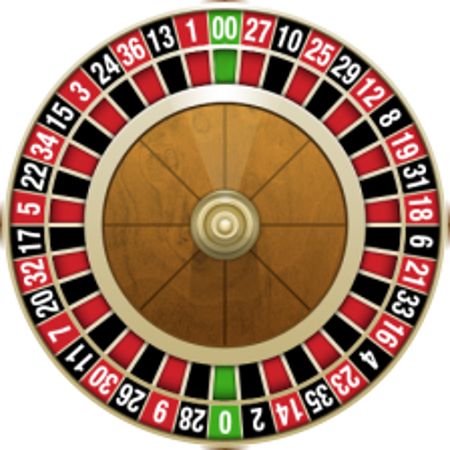
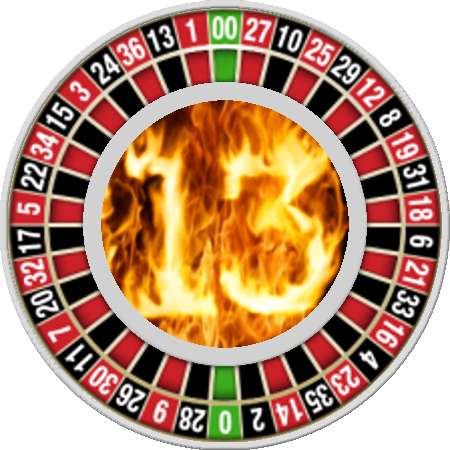
American Roulette rules/visuals and some visual updates to the wheels

diff --git a/CasinoPractice/core/src/com/thirteensecondstoburn/CasinoPractice/Actors/RouletteWheel.java b/CasinoPractice/core/src/com/thirteensecondstoburn/CasinoPractice/Actors/RouletteWheel.java
@@ -6,6 +6,7 @@ import com.badlogic.gdx.scenes.scene2d.Actor;
 import com.badlogic.gdx.scenes.scene2d.actions.Actions;
 import com.badlogic.gdx.scenes.scene2d.ui.Image;
 import com.thirteensecondstoburn.CasinoPractice.Assets;
+import com.thirteensecondstoburn.CasinoPractice.Screens.RouletteScreen;
 
 import java.util.ArrayList;
 import java.util.HashMap;
@@ -29,7 +30,11 @@ public class RouletteWheel extends Actor {
     int direction = 1;
 
     public RouletteWheel(Assets assets) {
-        wheel = new Image(assets.getTexture(Assets.TEX_NAME.ROULETTE_WHEEL_EUROPEAN));
+        if (RouletteScreen.isEuropean) {
+            wheel = new Image(assets.getTexture(Assets.TEX_NAME.ROULETTE_WHEEL_EUROPEAN));
+        } else {
+            wheel = new Image(assets.getTexture(Assets.TEX_NAME.ROULETTE_WHEEL_AMERICAN));
+        }
         wheel.setOrigin(225, 225);
         wheel.setPosition(this.getX(), this.getY());
 
@@ -39,10 +44,6 @@ public class RouletteWheel extends Actor {
         ball = new Image(assets.getTexture(Assets.TEX_NAME.ROULETTE_WHEEL_BALL));
         ball.setPosition(this.getX(), this.getY());
         ball.setOrigin(225, 225);
-
-//        for(int i=0; i<38; i++) {
-//            System.out.println(i * 360.0/37.0);
-//        }
     }
 
     @Override
@@ -72,15 +73,16 @@ public class RouletteWheel extends Actor {
         @Override
         public void run() {
             // make sure the wheel/ball end up on exact angles, set their positions and then set the ball number
-            // TODO update for the american wheel
             HashMap<Double, Integer> map = europeanAngles;
+            if(!RouletteScreen.isEuropean) {
+                map = americanAngles;
+            }
 
-
-            double ballRotation =  getClosestAngle(map, ball.getRotation());
-            ball.setRotation((float)ballRotation);
+            double ballRotation = getClosestAngle(map, ball.getRotation());
+            ball.setRotation((float) ballRotation);
             double wheelRotation = getClosestAngle(map, wheel.getRotation());
             wheel.setRotation((float) wheelRotation);
-            if(ballRotation > wheelRotation) ballRotation -= 360;
+            if (ballRotation > wheelRotation) ballRotation -= 360;
             double offsetAngle = getClosestAngle(map, Math.abs(ballRotation - wheelRotation));
             number = map.get(offsetAngle);
 
@@ -89,7 +91,10 @@ public class RouletteWheel extends Actor {
     }
 
     public void spin() {
-        int numbers = 37; // TODO change for american to 38
+        int numbers = 37;
+        if(!RouletteScreen.isEuropean) {
+            number = 38;
+        }
 
         ball.addAction(Actions.rotateBy(-1 * direction * (rand.nextInt(numbers) * 360 / numbers + 1080), 5f, Interpolation.sineOut));
         wheel.addAction(sequence(
@@ -104,16 +109,16 @@ public class RouletteWheel extends Actor {
     }
 
     private void notifyListeners() {
-        for(ActionCompletedListener l : listeners) {
+        for (ActionCompletedListener l : listeners) {
             l.actionCompleted(this);
         }
     }
 
     private double getClosestAngle(HashMap<Double, Integer> map, double refAngle) {
         Set<Double> keys = map.keySet();
-        if(Math.abs(refAngle) > 360) {
-            double timesGreater = (int)Math.abs(refAngle) / 360.0;
-            if(refAngle >= 0) {
+        if (Math.abs(refAngle) > 360) {
+            double timesGreater = (int) Math.abs(refAngle) / 360.0;
+            if (refAngle >= 0) {
                 refAngle -= 360.0 * (int) timesGreater;
             } else {
                 refAngle += 360.0 * (int) timesGreater + 360;
@@ -123,7 +128,7 @@ public class RouletteWheel extends Actor {
         double closestAngle = 0;
         for (double angle : keys) {
             double distance = Math.abs(refAngle - angle);
-            if(distance < closest) {
+            if (distance < closest) {
                 closest = distance;
                 closestAngle = angle;
             }
@@ -132,6 +137,7 @@ public class RouletteWheel extends Actor {
     }
 
     private static final HashMap<Double, Integer> europeanAngles = new HashMap<>();
+
     static {
         europeanAngles.put(0.0, 0);
         europeanAngles.put(9.72972972972973, 32);
@@ -170,5 +176,48 @@ public class RouletteWheel extends Actor {
         europeanAngles.put(330.81081081081084, 35);
         europeanAngles.put(340.5405405405405, 3);
         europeanAngles.put(350.27027027027026, 26);
-    };
+    }
+
+    private static final HashMap<Double, Integer> americanAngles = new HashMap<>();
+
+    static {
+        americanAngles.put(0.0, 37);
+        americanAngles.put(9.473684210526315, 27);
+        americanAngles.put(18.94736842105263, 10);
+        americanAngles.put(28.42105263157895, 25);
+        americanAngles.put(37.89473684210526, 29);
+        americanAngles.put(47.36842105263158, 12);
+        americanAngles.put(56.8421052631579, 8);
+        americanAngles.put(66.3157894736842, 19);
+        americanAngles.put(75.78947368421052, 31);
+        americanAngles.put(85.26315789473684, 18);
+        americanAngles.put(94.73684210526316, 6);
+        americanAngles.put(104.21052631578948, 21);
+        americanAngles.put(113.6842105263158, 33);
+        americanAngles.put(123.15789473684211, 16);
+        americanAngles.put(132.6315789473684, 4);
+        americanAngles.put(142.10526315789474, 23);
+        americanAngles.put(151.57894736842104, 35);
+        americanAngles.put(161.05263157894737, 14);
+        americanAngles.put(170.52631578947367, 2);
+        americanAngles.put(180.0, 0);
+        americanAngles.put(189.47368421052633, 28);
+        americanAngles.put(198.94736842105263, 9);
+        americanAngles.put(208.42105263157896, 26);
+        americanAngles.put(217.89473684210526, 30);
+        americanAngles.put(227.3684210526316, 11);
+        americanAngles.put(236.8421052631579, 7);
+        americanAngles.put(246.31578947368422, 20);
+        americanAngles.put(255.78947368421052, 32);
+        americanAngles.put(265.2631578947368, 17);
+        americanAngles.put(274.7368421052632, 5);
+        americanAngles.put(284.2105263157895, 22);
+        americanAngles.put(293.6842105263158, 34);
+        americanAngles.put(303.1578947368421, 15);
+        americanAngles.put(312.63157894736844, 3);
+        americanAngles.put(322.10526315789474, 24);
+        americanAngles.put(331.57894736842104, 36);
+        americanAngles.put(341.05263157894734, 13);
+        americanAngles.put(350.5263157894737, 1);
+    }
 }

diff --git a/CasinoPractice/core/src/com/thirteensecondstoburn/CasinoPractice/Screens/RouletteScreen.java b/CasinoPractice/core/src/com/thirteensecondstoburn/CasinoPractice/Screens/RouletteScreen.java
@@ -33,6 +33,7 @@ public class RouletteScreen extends TableScreen implements ActionCompletedListen
     List<BettingSpot> bettingSpots;
     RouletteWheel wheel;
     RouletteNumberBoard numberBoard;
+    public static boolean isEuropean = true;
 
     @Override
     public void actionCompleted(Actor caller) {
@@ -42,7 +43,14 @@ public class RouletteScreen extends TableScreen implements ActionCompletedListen
 
     @Override
     protected void setup() {
-        Texture tableTex = assets.getTexture(Assets.TEX_NAME.ROULETTE_TABLE_EUROPEAN);
+        isEuropean =  game.getRouletteType().equalsIgnoreCase("European");
+
+        Texture tableTex;
+        if(isEuropean) {
+            tableTex = assets.getTexture(Assets.TEX_NAME.ROULETTE_TABLE_EUROPEAN);
+        } else {
+            tableTex = assets.getTexture(Assets.TEX_NAME.ROULETTE_TABLE_AMERICAN);
+        }
         tableImage = new Image(tableTex);
         tableImage.setPosition(280, 40);
 
@@ -74,8 +82,13 @@ public class RouletteScreen extends TableScreen implements ActionCompletedListen
             bettingSpots.add(new BettingSpot(new GridPoint2(428 + i * 95, 460), 35, new int[]{i*3 + 2})); // middle line
             bettingSpots.add(new BettingSpot(new GridPoint2(428 + i * 95, 342), 35, new int[]{i*3 + 1})); // bottom line
         }
-        bettingSpots.add(new BettingSpot(new GridPoint2(336, 460), 35, new int[]{0})); // single 0
-        // TODO American 0 stuff 00 = 38
+        if(isEuropean) {
+            bettingSpots.add(new BettingSpot(new GridPoint2(336, 460), 35, new int[]{0})); // single 0
+        } else {
+            // American 00 = 37
+            bettingSpots.add(new BettingSpot(new GridPoint2(336, 524), 35, new int[]{37})); // single 0
+            bettingSpots.add(new BettingSpot(new GridPoint2(336, 404), 35, new int[]{0})); // single 00
+        }
 
         bettingSpots.add(new BettingSpot(new GridPoint2(1574, 588), 2, new int[]{3,6,9,12,15,18,21,24,27,30,33,36})); // top dozen
         bettingSpots.add(new BettingSpot(new GridPoint2(1574, 460), 2, new int[]{2,5,8,11,14,17,20,23,26,29,32,35})); // middle dozen
@@ -104,7 +117,7 @@ public class RouletteScreen extends TableScreen implements ActionCompletedListen
             bettingSpots.add(new BettingSpot(new GridPoint2(475 + i * 95, 292), 5, new int[]{i * 3 +1, i * 3 + 2, i * 3 + 3, (i+1) * 3 +1, (i+1) * 3 + 2, (i+1) * 3 + 3}));
         }
 
-        bettingSpots.add(new BettingSpot(new GridPoint2(380, 292), 6, new int[]{38,0,1,2,3})); // basket 00 = 38
+        bettingSpots.add(new BettingSpot(new GridPoint2(380, 292), 6, new int[]{37,0,1,2,3})); // basket 00 = 37
 
         bettingSpots.add(new BettingSpot(new GridPoint2(568, 228), 2, new int[]{1,2,3,4,5,6,7,8,9,10,11,12})); // 1 - 12
         bettingSpots.add(new BettingSpot(new GridPoint2(952, 228), 2, new int[]{13,14,15,16,17,18,19,20,21,22,23,24})); // 13 - 24
@@ -148,7 +161,6 @@ public class RouletteScreen extends TableScreen implements ActionCompletedListen
     }
 
     private void calculateWinnings(int number) {
-        System.out.println("Number was: " + number);
         int won = 0;
         int currentWager = 0;
         for (BettingSpot spot : bettingSpots) {

diff --git a/CasinoPractice/core/src/com/thirteensecondstoburn/CasinoPractice/CasinoPracticeGame.java b/CasinoPractice/core/src/com/thirteensecondstoburn/CasinoPractice/CasinoPracticeGame.java
@@ -38,6 +38,8 @@ public class CasinoPracticeGame extends Game {
     private boolean blackjackHitSoft17 = false;
     private int tableMinimum = 5;
 
+    private String rouletteType = "European";
+
     public SplashScreen getSplashScreen() {
         if(splashScreen == null) splashScreen = new SplashScreen(this);
         return splashScreen;
@@ -97,6 +99,7 @@ public class CasinoPracticeGame extends Game {
         blackjackPenetration = saveData.getFloat(("bjPenetration"), .65f);
         blackjackDecks = saveData.getInteger("bjDecks", 8);
         tableMinimum = saveData.getInteger("tableMinimum", 5);
+        rouletteType = saveData.getString("rouletteType");
 
         setScreen(getSplashScreen());
 	}
@@ -110,6 +113,7 @@ public class CasinoPracticeGame extends Game {
         saveData.putFloat("bjPenetration", blackjackPenetration);
         saveData.putInteger("bjDecks", blackjackDecks);
         saveData.putInteger("tableMinimum", tableMinimum);
+        saveData.putString("rouletteType", rouletteType);
         saveData.flush();
     }
 
@@ -121,6 +125,9 @@ public class CasinoPracticeGame extends Game {
         if(threeCardPokerScreen != null) try {threeCardPokerScreen.dispose();} catch (Exception ex) {}
         if(crazyFourPokerScreen != null) try {crazyFourPokerScreen.dispose();} catch (Exception ex) {}
         if(caribbeanStudPokerScreen != null) try {caribbeanStudPokerScreen.dispose();} catch (Exception ex) {}
+        if(blackJackScreen != null) try {blackJackScreen.dispose();} catch (Exception ex) {}
+        if(crapsScreen != null) try {crapsScreen.dispose();} catch (Exception ex) {}
+        if(rouletteScreen != null) try {rouletteScreen.dispose();} catch (Exception ex) {}
         saveSettings();
     }
 
@@ -206,4 +213,14 @@ public class CasinoPracticeGame extends Game {
     }
 
     public int getTableMaximum() { return tableMinimum * 100; }
+
+    public String getRouletteType() {
+        return rouletteType;
+    }
+
+    public void setRouletteType(String rouletteType) {
+        this.rouletteType = rouletteType;
+    }
+
+
 }

diff --git a/CasinoPractice/core/src/com/thirteensecondstoburn/CasinoPractice/Screens/SettingsScreen.java b/CasinoPractice/core/src/com/thirteensecondstoburn/CasinoPractice/Screens/SettingsScreen.java
@@ -90,7 +90,7 @@ public class SettingsScreen  implements Screen {
         Table minTable = new Table(skin);
         minTable.add("Table Minimum").padRight(10);
         final SelectBox<Integer> sbMin = new SelectBox<>(skin);
-        sbMin.setItems(new Integer[] {5,10,25,100,500});
+        sbMin.setItems(new Integer[]{5, 10, 25, 100, 500});
         sbMin.setSelected(game.getTableMinimum());
         sbMin.addListener(new ChangeListener() {
             @Override
@@ -164,6 +164,26 @@ public class SettingsScreen  implements Screen {
         });
         decksTable.add(sbDecks).left();
         table.add(decksTable).left().pad(10);
+
+        table.row();
+        table.add(new Label("Roulette Settings", skin, "large-font")).pad(20).colspan(2);
+        table.row();
+        Table rouletteTable = new Table(skin);
+        rouletteTable.add("Number of Decks").padRight(10);
+        final SelectBox<String> rType = new SelectBox<>(skin);
+        rType.setItems(new String[]{"European", "American"});
+        rType.setSelected(game.getRouletteType());
+        rType.addListener(new ChangeListener() {
+            @Override
+            public void changed(ChangeEvent event, Actor actor) {
+                String value = rType.getSelection().first();
+                game.setRouletteType(value);
+                game.saveSettings();
+            }
+        });
+        rouletteTable.add(rType).left();
+        table.add(rouletteTable).left().pad(10);
+
 
         Table outerTable = new Table(skin);
         outerTable.setBackground(new SpriteDrawable(background));
